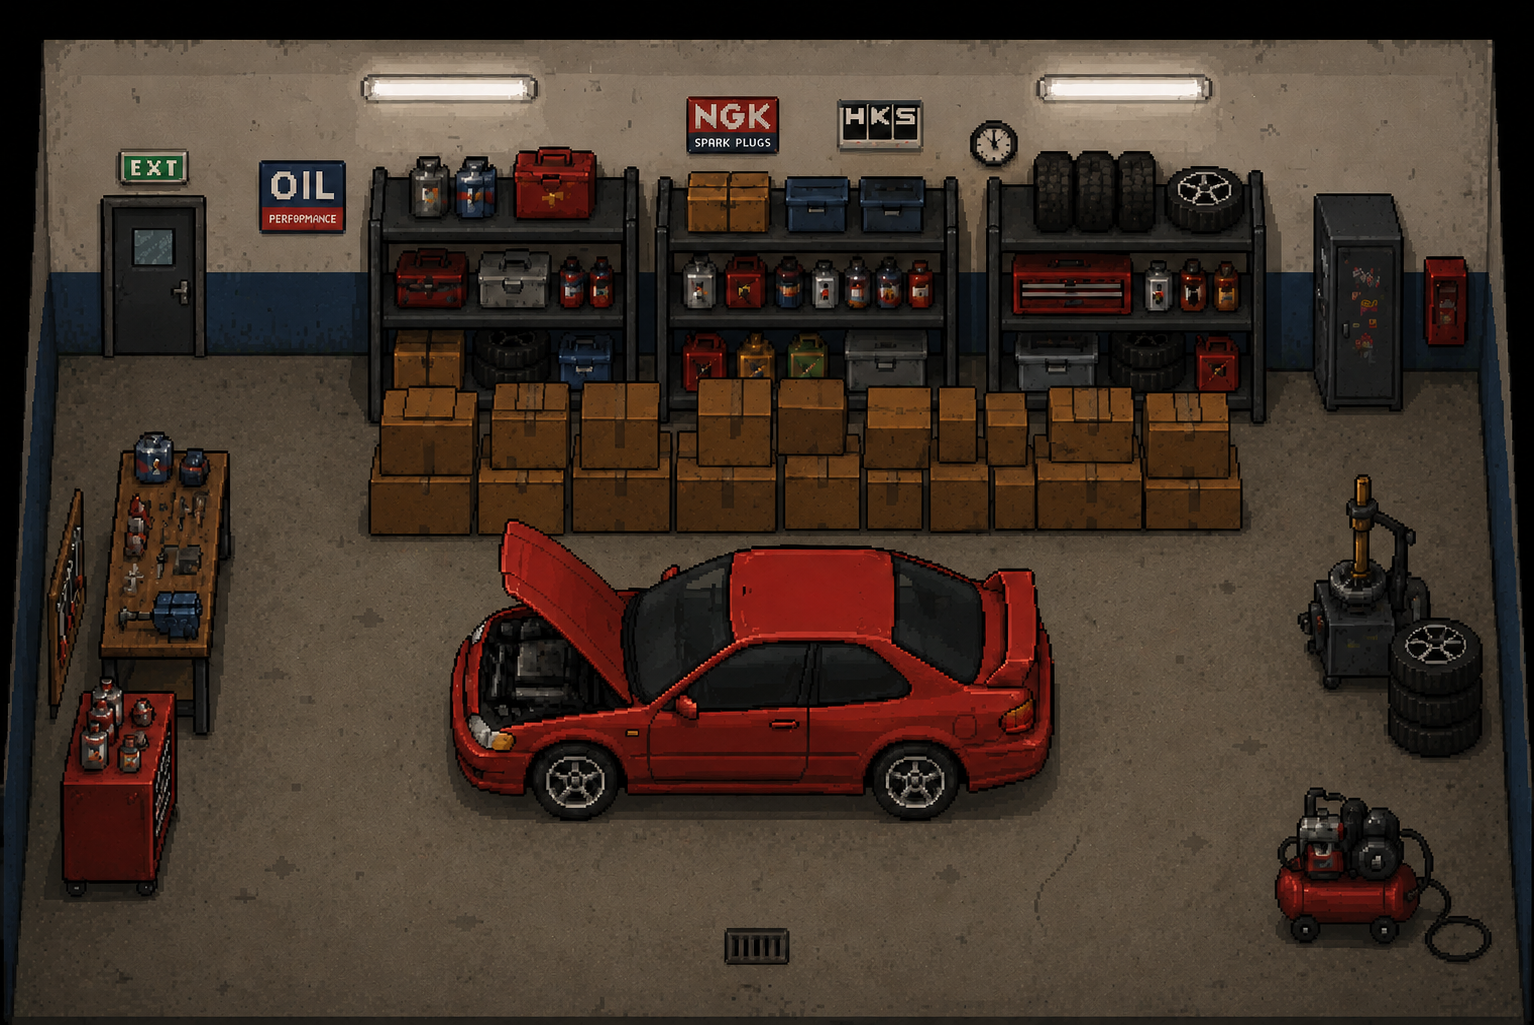
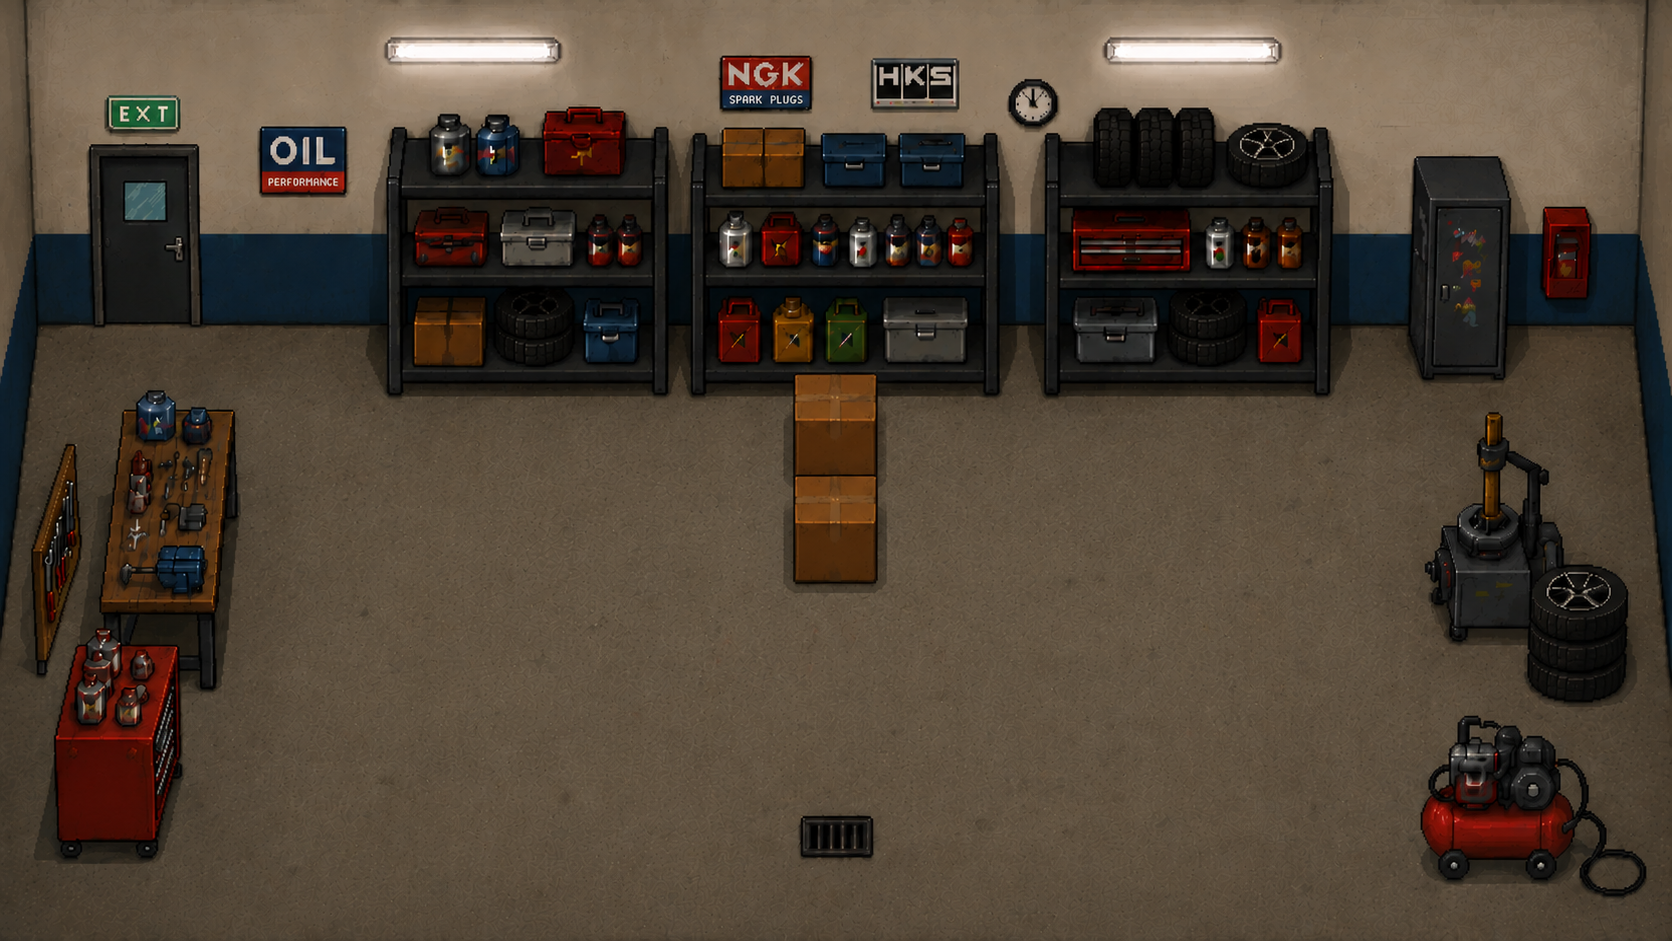
garage

diff --git a/Level 3/Garage Lvl 3.py b/Level 3/Garage Lvl 3.py
@@ -28,7 +28,7 @@ class Player(pygame.sprite.Sprite):
     def __init__(self, groups):
         super().__init__(groups)
         self.image = pygame.transform.scale_by(pygame.image.load(
-            r'images\Player_sprites\sprite-1-1 (1).png').convert_alpha(), 2.5)
+            r'images\Player_sprites\sprite-1-1 (1).png').convert_alpha(), 1.5)
         self.rect  = self.image.get_frect(center=(WINDOW_WIDTH / 2, WINDOW_HEIGHT / 2))
         self.direction    = pygame.Vector2()
         self.base_speed   = 150
@@ -120,16 +120,23 @@ def run(incoming_hotbar_slots=None):
     # Background
     background = pygame.image.load("images/garage.png").convert()
     background = pygame.transform.scale(background, (WINDOW_WIDTH, WINDOW_HEIGHT))
+    
+    # Car — easily adjustable scale and position
+    CAR_SCALE = 1.0  # Adjust this to change size
+    CAR_POS   = (640, 400)  # Adjust this to change position
+    car_img = pygame.image.load("images/Car.png").convert_alpha()
+    car_img = pygame.transform.scale_by(car_img, CAR_SCALE)
+    car_rect = car_img.get_rect(center=CAR_POS)
 
     # Player walk animations
-    walk_forward       = [pygame.transform.scale_by(pygame.image.load(rf"images\Player_sprites\sprite-1-{i} (1).png"), 2.5) for i in range(1, 5)]
-    walk_back          = [pygame.transform.scale_by(pygame.image.load(rf"images\Player_sprites\sprite-2-{i} (1).png"), 2.5) for i in range(1, 5)]
-    walk_right         = [pygame.transform.scale_by(pygame.image.load(rf"images\Player_sprites\sprite-3-{i} (1).png"), 2.5) for i in range(1, 5)]
-    walk_left          = [pygame.transform.scale_by(pygame.image.load(rf"images\Player_sprites\sprite-4-{i} (1).png"), 2.5) for i in range(1, 5)]
-    walk_forward_right = [pygame.transform.scale_by(pygame.image.load(rf"images\Player_sprites\sprite-5-{i} (1).png"), 2.5) for i in range(1, 5)]
-    walk_forward_left  = [pygame.transform.scale_by(pygame.image.load(rf"images\Player_sprites\sprite-6-{i} (1).png"), 2.5) for i in range(1, 5)]
-    walk_back_right    = [pygame.transform.scale_by(pygame.image.load(rf"images\Player_sprites\sprite-2-{i} (2).png"), 1.625) for i in range(1, 6)]
-    walk_back_left     = [pygame.transform.scale_by(pygame.image.load(rf"images\Player_sprites\sprite-1-{i} (2).png"), 1.625) for i in range(1, 6)]
+    walk_forward       = [pygame.transform.scale_by(pygame.image.load(rf"images\Player_sprites\sprite-1-{i} (1).png"), 1.5) for i in range(1, 5)]
+    walk_back          = [pygame.transform.scale_by(pygame.image.load(rf"images\Player_sprites\sprite-2-{i} (1).png"), 1.5) for i in range(1, 5)]
+    walk_right         = [pygame.transform.scale_by(pygame.image.load(rf"images\Player_sprites\sprite-3-{i} (1).png"), 1.5) for i in range(1, 5)]
+    walk_left          = [pygame.transform.scale_by(pygame.image.load(rf"images\Player_sprites\sprite-4-{i} (1).png"), 1.5) for i in range(1, 5)]
+    walk_forward_right = [pygame.transform.scale_by(pygame.image.load(rf"images\Player_sprites\sprite-5-{i} (1).png"), 1.5) for i in range(1, 5)]
+    walk_forward_left  = [pygame.transform.scale_by(pygame.image.load(rf"images\Player_sprites\sprite-6-{i} (1).png"), 1.5) for i in range(1, 5)]
+    walk_back_right    = [pygame.transform.scale_by(pygame.image.load(rf"images\Player_sprites\sprite-2-{i} (2).png"), 0.925) for i in range(1, 6)]
+    walk_back_left     = [pygame.transform.scale_by(pygame.image.load(rf"images\Player_sprites\sprite-1-{i} (2).png"), 0.925) for i in range(1, 6)]
 
     # Hotbar
     overlay = Overlay(Player)
@@ -159,6 +166,7 @@ def run(incoming_hotbar_slots=None):
     fade_surf.fill((0, 0, 0))
     for alpha in range(255, -1, -6):
         display_surface.blit(background, (0, 0))
+        display_surface.blit(car_img, car_rect)
         all_sprites.draw(display_surface)
         overlay.display(display_surface)
         fade_surf.set_alpha(alpha)
@@ -188,9 +196,16 @@ def run(incoming_hotbar_slots=None):
         all_sprites.update(dt)
         resolve_collision(player)
 
-        # Draw
+        # Draw — Y-sort car against player so player walks behind it
         display_surface.blit(background, (0, 0))
-        all_sprites.draw(display_surface)
+        if player.rect.bottom < car_rect.centery:
+            # Player is behind the car — draw player first, car on top
+            all_sprites.draw(display_surface)
+            display_surface.blit(car_img, car_rect)
+        else:
+            # Player is in front of the car — draw car first, player on top
+            display_surface.blit(car_img, car_rect)
+            all_sprites.draw(display_surface)
         exit_door.draw(display_surface)
 
         if DEBUG_COLLISIONS:

diff --git a/Level 3/Lvl 3.py b/Level 3/Lvl 3.py
@@ -164,6 +164,14 @@ def run(incoming_hotbar_slots=None):
     room_key = InventoryItem("Room_Key", "Key Item", "images/Key.png")
     overlay.hotbar.add_item_first_free(room_key)
 
+    # Garage door — centre of the map, leads to Garage Lvl 3
+    garage_door = Door(
+        pos           = (153, 204),
+        target_module = "Level 3/Garage Lvl 3.py",
+        image_path    = None,
+        size          = (155, 80),
+    )
+
 
     # Sprites
     all_sprites = pygame.sprite.Group()
@@ -180,6 +188,7 @@ def run(incoming_hotbar_slots=None):
         display_surface.blit(house_front,     (850, 5))
         display_surface.blit(dog_house,       (100, 500))
         all_sprites.draw(display_surface)
+        garage_door.draw(display_surface)
         overlay.display(display_surface)
         fade_surf.set_alpha(alpha)
         display_surface.blit(fade_surf, (0, 0))
@@ -197,19 +206,14 @@ def run(incoming_hotbar_slots=None):
                 overlay.hotbar.handle_keypress(event)
 
                 if event.key == pygame.K_e:
-                    # Try either door — both have same position but serve same function
-                    if front_door.try_enter_keyed(player, overlay.hotbar):
+                    if garage_door.try_enter(player):
                         import shared_state
                         shared_state.returned_hotbar_slots = list(overlay.hotbar.slots)
-                        front_door.transition(display_surface)
-                        front_door.load_next_level()
-                    elif exit_door.try_enter_keyed(player, overlay.hotbar):
-                        import shared_state
-                        shared_state.returned_hotbar_slots = list(overlay.hotbar.slots)
-                        exit_door.transition(display_surface)
-                        exit_door.load_next_level()
+                        garage_door.transition(display_surface)
+                        garage_door.load_next_level()
 
         all_sprites.update(dt)
+        garage_door.update(player)
         resolve_collision(player)
 
         # Draw
@@ -219,6 +223,7 @@ def run(incoming_hotbar_slots=None):
         display_surface.blit(garage_front, (5,5))
         player.player_walk_sound()
         all_sprites.draw(display_surface)
+        garage_door.draw(display_surface)
         overlay.display(display_surface)
         pygame.display.update()
 